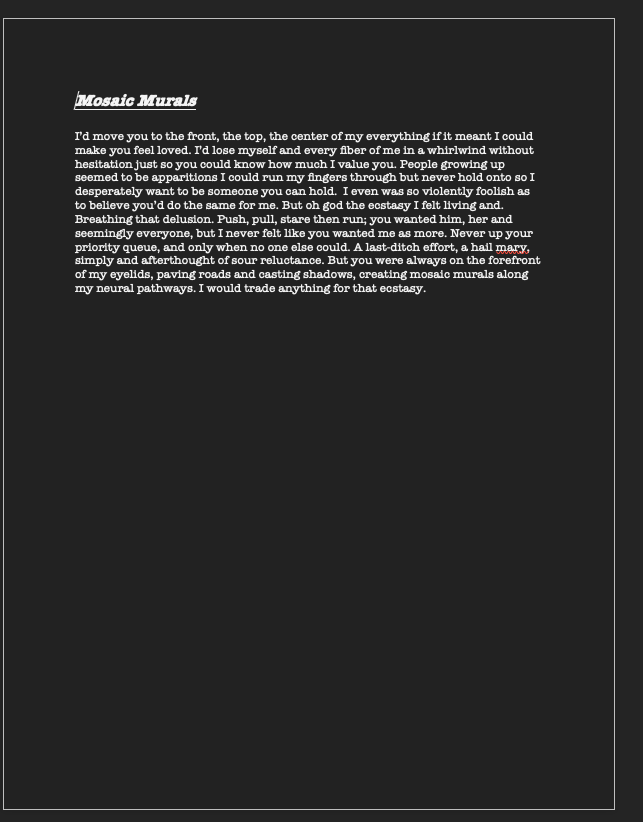
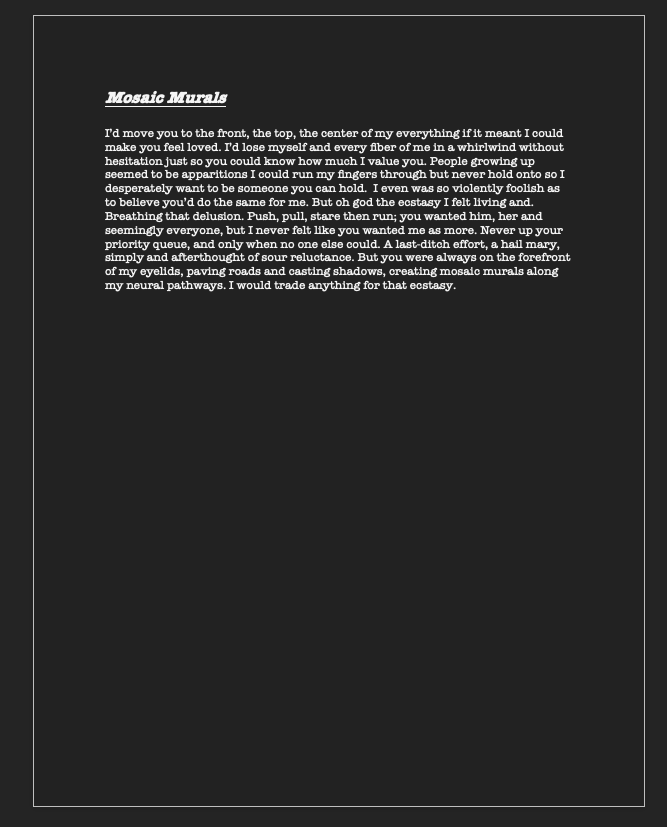
polish

Changed region(s): [[0.0933, 0.0912, 0.8709, 0.365]]

diff --git a/mental/illness/covers/covers.html b/mental/illness/covers/covers.html
@@ -107,8 +107,7 @@
   <body>
    <main class="works">
    <div class="covers">
-  <IMG class="zoomies" src="Rose.jpg"/>
-  <IMG class="zoomies" src="nostalgia.jpg"/> 
+  <IMG class="zoomies" src="Rose.jpg"/> 
   <IMG class="zoomies" src="IMG_1956.jpeg"/>
   <IMG class="zoomies" src="prada .jpg"/>
   <IMG class="zoomies" src="IMG_2794.jpg"/>
